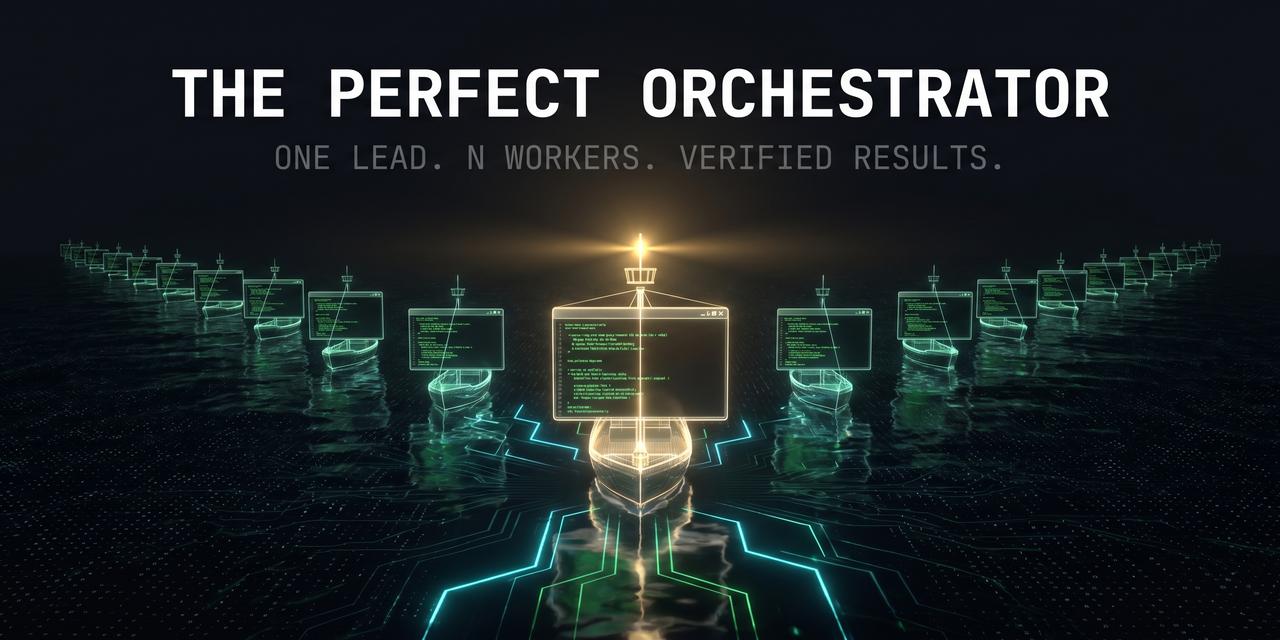
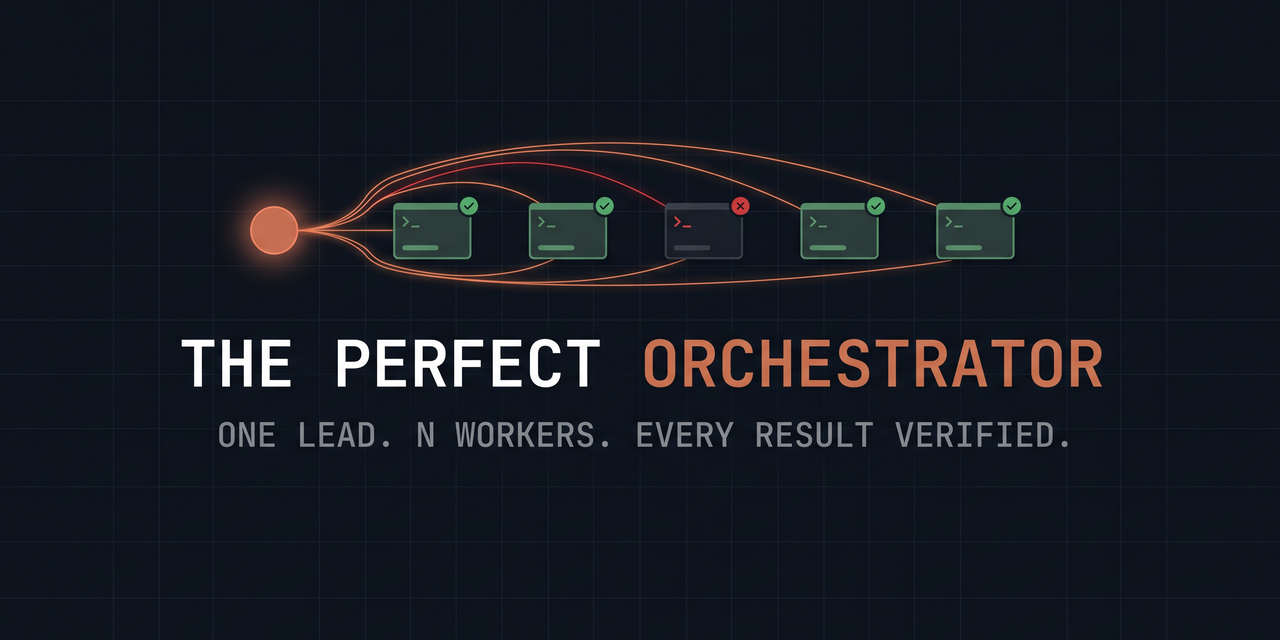
docs: real fleet-run proof bundle + fix spawn doc-drift the run itself found
The site's 'real run' video replays this exact session (52/52 lines fidelity-
checked against these artifacts). The run also audited THIS repo and caught
README.md overstating what `orch spawn` creates at spawn time — fixed.
Social card refreshed to the clay rebrand.

diff --git a/docs/realrun-2026-06-06/shared/agent-2.result.md b/docs/realrun-2026-06-06/shared/agent-2.result.md
@@ -1,0 +1,92 @@
+# W2 — README truth check: claim-by-claim verification
+
+**Summary: 34 TRUE · 1 STALE · 0 FALSE · 5 UNVERIFIABLE** (external/marketing claims that can't be checked from inside the repo).
+The README is unusually honest — every command, flag, path, and security claim checked out against `bin/orch`, `install.sh`, and `config/worker-settings.json`; the one STALE item is a minor overstatement of what `orch spawn` creates.
+Notable non-claim discovery: `heroB.png` + `heroC.png` (~9.4 MB) are git-tracked at repo root, referenced nowhere.
+
+## Badges & header (README.md:1–16)
+
+| # | Claim | Verdict | Evidence |
+|---|---|---|---|
+| 1 | Hero image `assets/hero.png` | TRUE | File exists (1.36 MB) |
+| 2 | Site `the-perfect-orchestrator.vercel.app` is live | TRUE | `curl -sI` → HTTP/2 200 |
+| 3 | License: MIT | TRUE | LICENSE:1–3 — "MIT License / Copyright (c) 2026 danny (daman8271)" |
+| 4 | Made with Bash | TRUE | `bin/orch:1`, `install.sh:1` — bash shebangs; no other languages |
+| 5 | Requires tmux | TRUE | install.sh:12 hard-fails without tmux; bin/orch:170–173 (doctor) |
+| 6 | CI badge → `workflows/ci.yml` | TRUE | `.github/workflows/ci.yml` exists (bash -n, shellcheck, json check); badge URL returns 200 |
+| 7 | GitHub repo `daman8271/the-perfect-orchestrator` exists | TRUE | `curl` → 200; matches `git remote -v` |
+
+## Intro & "How it works" (README.md:20–89)
+
+| # | Claim | Verdict | Evidence |
+|---|---|---|---|
+| 8 | Spawns N interactive Claude Code workers in tmux panes | TRUE | bin/orch:70–79 (`tmux new-session`/`split-window`, tiled), bin/orch:232 (`exec claude`) |
+| 9 | Shared message bus `bus.md` | TRUE | bin/orch:65 creates it; status tails it (bin/orch:149) |
+| 10 | Coordination is plain files — no servers/daemons/broker | TRUE | bin/orch uses only tmux + files under `~/.orch/runs/`; no listeners |
+| 11 | `assets/verification.png` | TRUE | File exists (834 KB) |
+| 12 | Worker protocol (task brief / `[Wn]` bus lines / result + done-flag / never wait) | TRUE | Matches skill/SKILL.md:30–35 and state layout in bin/orch:39–42; this very run follows it |
+| 13 | Workers adversarially verify each other's results | TRUE (by protocol) | SKILL.md:35,38 and docs/PATTERNS.md §1 — it's the documented playbook; note: enforced by convention, not code |
+| 14 | "Learned in production… repeatedly caught the lead's own wrong assumptions" | UNVERIFIABLE | Anecdotal; no artifact in repo can confirm |
+
+## Quickstart (README.md:91–115)
+
+| # | Claim | Verdict | Evidence |
+|---|---|---|---|
+| 15 | `./install.sh` installs `orch` CLI + `/orch` skill | TRUE | install.sh:17 (symlink → `~/.local/bin/orch`), install.sh:23 (copies SKILL.md → `~/.claude/skills/orch/`) |
+| 16 | `orch doctor` verifies setup + prints lead allow-rules | TRUE | bin/orch:166–199 — checks tmux/claude/credentials, prints `Bash(orch:*)`/`Bash(tmux:*)` JSON |
+| 17 | `/orch <prompt>` puts session in command of fleet | TRUE | skill/SKILL.md frontmatter `name: orch` + full lead playbook |
+| 18 | `orch spawn audit 4 ~/my-project` → tmux session `orch-audit` | TRUE | bin/orch:60 (`ses="orch-$session"`) |
+| 19 | `orch send audit 1 --file …/agent-1.task.md` | TRUE | bin/orch:103–107 |
+| 20 | `orch read audit 1` watches worker screen | TRUE | bin/orch:120–127 (`tmux capture-pane`) |
+| 21 | `orch status audit` → panes + done-flags + bus tail | TRUE | bin/orch:129–150 |
+| 22 | `orch kill audit` tears down | TRUE | bin/orch:152–164 |
+
+## Commands table (README.md:117–127)
+
+| # | Claim | Verdict | Evidence |
+|---|---|---|---|
+| 23 | `spawn` creates "shared workspace (bus.md, briefs, results, done-flags)" | **STALE** | spawn itself creates only `bus.md` + `panes.txt` (bin/orch:64–66); briefs/results/done-flags are written *later* by lead/workers. The CLI's own help is accurate: "shared workspace (bus.md, panes.txt)" (bin/orch:24) |
+| 24 | `send` is single-line; newline submits; `--file` for briefs | TRUE | bin/orch:110–112 rejects embedded newlines with that exact rationale |
+| 25 | `read … [lines]` captures pane | TRUE | bin/orch:123 (default 50 lines) |
+| 26 | `status [session]` lists fleets or one fleet's detail | TRUE | bin/orch:130–150 |
+| 27 | `kill <session> \| --all` | TRUE | bin/orch:153–159 |
+| 28 | `doctor` = dependency check + allow-rules | TRUE | bin/orch:166–199 |
+| — | (table omits internal `orch worker` — disclosed as "(internal)" in `orch --help`, not a misclaim) | — | bin/orch:34–35 |
+
+## Patterns & comparison (README.md:129–160)
+
+| # | Claim | Verdict | Evidence |
+|---|---|---|---|
+| 29 | Full playbook at `docs/PATTERNS.md` | TRUE | Exists; contents match the 5 bullets (find→verify, neutral briefs, one-owner, commit-local, 3× verify) |
+| 30 | "Came from running real production work… not demos" | UNVERIFIABLE | Anecdotal |
+| 31 | Full survey at `docs/LANDSCAPE.md`, snapshot 2026-06-05 | TRUE | Exists; header states snapshot 2026-06-05 + methodology |
+| 32 | Comparison-table rows about competitors (Tmux-Orchestrator, claude-squad, etc.) | UNVERIFIABLE | External point-in-time claims; LANDSCAPE.md documents methodology but can't be independently confirmed offline |
+
+## Security model (README.md:162–176)
+
+| # | Claim | Verdict | Evidence |
+|---|---|---|---|
+| 33 | Workers run with `defaultMode: auto` | TRUE | config/worker-settings.json:3 |
+| 34 | Generous allowlist: git, node, python, file edits, network fetches | TRUE | config/worker-settings.json — `Bash(git:*)`, `Bash(node:*)`, `Bash(python3:*)`, `Edit`/`Write`, `Bash(curl:*)`/`WebFetch` |
+| 35 | `rm` is NOT allowlisted | TRUE | Absent from the allow array (grep confirms; `mv`/`cp`/`chmod` are present, `rm` is not) |
+| 36 | Credentials shared via symlink | TRUE | bin/orch:215–217 (`ln -sf ~/.claude/.credentials.json`) |
+| 37 | Isolated config dir; "hooks, history, settings untouched" | TRUE (w/ caveat) | bin/orch:230 (`CLAUDE_CONFIG_DIR=$cfg`). Caveat: `~/.claude/plugins` is symlinked *writable* into worker config (bin/orch:219–221) and `~/.claude.json` is copied in (224–227) — hooks/history/settings genuinely untouched, but plugins are shared live |
+| 38 | Tune `~/.orch/worker-config/settings.json` | TRUE | Seeded on first worker run (bin/orch:212–214); SECURITY.md:32 correctly says "after first run" |
+
+## Requirements, roadmap, footer (README.md:178–217)
+
+| # | Claim | Verdict | Evidence |
+|---|---|---|---|
+| 39 | Linux or macOS, tmux ≥ 3.0 | TRUE (w/ caveats) | Nothing enforces the tmux version (doctor checks presence only); `readlink -f` (bin/orch:9) requires macOS ≥ 12.3 — older Macs fail |
+| 40 | Requires Claude Code CLI, logged in | TRUE | install.sh:13; doctor warns if `~/.claude/.credentials.json` missing |
+| 41 | Roadmap items (`orch verify`/`demo`/`watch`, telemetry, templates) are unimplemented | TRUE (correctly unchecked) | None appear in the command dispatch (bin/orch:235–243) — honest roadmap |
+| 42 | MIT © 2026 danny (daman8271) | TRUE | LICENSE:1–3 |
+| 43 | Site "built and QA'd by its own fleet" / "battle-tested by orchestrating the fleets it ships" | UNVERIFIABLE | Marketing; no repo artifact |
+| 44 | CHANGELOG 0.1.0 matches shipped CLI | TRUE | `./bin/orch --version` → `orch 0.1.0`; command list matches |
+
+## Other docs spot-checked
+- **SECURITY.md** — consistent with code in every checkable particular (allowlist contents, symlink, lock/push workflow).
+- **CONTRIBUTING.md / examples/demo** — referenced files all exist; demo task files are `{{REPO}}` templates (per W1's bus note).
+
+## Non-claim discovery
+- `heroB.png` (5.4 MB) + `heroC.png` (4.4 MB) are **git-tracked at repo root**, referenced by nothing (README uses `assets/hero.png`). Likely leftover drafts bloating the clone by ~9.4 MB.

diff --git a/docs/realrun-2026-06-06/README.md b/docs/realrun-2026-06-06/README.md
@@ -1,0 +1,49 @@
+# realrun/ — raw proof bundle for the RealRun replay video
+
+This is the **unedited record of a genuine fleet session**, run on **2026-06-06,
+04:44–04:54 local**, on this machine. The Perfect Orchestrator's own
+`examples/demo` (3-worker self-verifying audit) was run for real against its own
+repository (`git clone https://github.com/daman8271/the-perfect-orchestrator`,
+clean checkout at `/tmp/demo-target`).
+
+The video `out/realrun-web.mp4` is a time-compressed replay of this session.
+**Every line of text rendered in the video exists verbatim in this bundle** —
+nothing was invented, paraphrased, or staged. ~10 minutes of real wall-clock are
+compressed to ~31 s; the video watermarks this ("real session · 2026-06-06 ·
+time compressed").
+
+## What happened (real timeline)
+
+| time | event |
+|---|---|
+| 04:44 | `orch spawn demo 3 /tmp/demo-target` — 3 Claude Code workers in tmux panes |
+| 04:45 | W1 (TODO/debt finder) + W2 (README truth-checker) dispatched via `orch send --file` |
+| 04:46 | `agent-1.done` — W1: zero genuine debt markers in the repo (all 4 grep hits are meta-references) |
+| 04:48 | `agent-2.done` — W2: 34 TRUE / **1 STALE** / 0 FALSE README claims |
+| 04:48 | W3 (adversarial verifier) dispatched — only after both finder done-flags |
+| 04:53 | `agent-3.done` — verdicts: **17 CONFIRMED, 0 REFUTED, 1 confirmed-with-minor-correction**, 4 UNVERIFIABLE (agreed). W3 independently re-derived every finding and **caught a real error in W1's report** (claimed "4 PNGs excluded as binary"; there are 5) and confirmed W2's STALE finding as genuine doc-vs-code drift (README.md:121 vs bin/orch:64–66) |
+| 04:54 | `orch kill demo` |
+
+## Files
+
+- `capture.log` — 39 timed snapshots (~every 15 s while the fleet ran): `date +%T`,
+  `orch status demo`, and the last 12 lines of each of the 3 worker panes.
+  Recorded live by `capture.sh` (included). This is the independent, third-party-style
+  record — it shows the actual Claude Code TUIs working.
+- `lead-session.log` — verbatim lead-side transcript: every command the lead ran
+  and the stdout each returned.
+- `commands.log` — minimal command-only log written live during the run.
+- `shared/` — byte-for-byte copy of the fleet's shared workspace at teardown:
+  - `bus.md` — the real message bus (every `[W1]/[W2]/[W3]` line)
+  - `agent-{1,2,3}.task.md` — the dispatched briefs (instantiated from
+    `examples/demo/agent-*.task.md`, `{{REPO}}` → `/tmp/demo-target`)
+  - `agent-{1,2,3}.result.md` — the workers' actual deliverables, including W3's
+    full verification matrix
+  - `agent-{1,2,3}.done` — the (empty) done-flags with their real mtimes
+
+## How to check the video against this bundle
+
+Every rendered line in `src/RealRun.tsx` is a contiguous substring of a line in
+`lead-session.log`, `shared/bus.md`, `shared/agent-3.result.md`, or `capture.log`
+(long lines hand-wrapped for the 1080p frame; wraps marked by leading spaces).
+`grep -F` any rendered line against this directory to verify.

diff --git a/docs/realrun-2026-06-06/shared/agent-3.result.md b/docs/realrun-2026-06-06/shared/agent-3.result.md
@@ -1,0 +1,49 @@
+# W3 — Adversarial verification of W1 + W2
+
+## Summary
+- **Findings examined: 18** (W1: 2 substantive claims + 4-row inventory; W2: 12 substantive claims/discoveries).
+- **CONFIRMED: 17 · REFUTED: 0 · CONFIRMED-with-correction: 1 · UNVERIFIABLE (agreed): 4 marketing/external-history claims.**
+- **False positives found in their work: 0.** Both finders were accurate and, if anything, *understated*.
+- **Single most important confirmed finding:** W2's lone STALE item — the README commands table (README.md:121) claims `orch spawn` creates a "shared workspace (bus.md, briefs, results, done-flags)", but `cmd_spawn` (bin/orch:64–66) creates **only** `bus.md` + `panes.txt`; briefs/results/done-flags are written later by the lead/workers. The CLI's own `--help` (bin/orch:24) is accurate. This is the one real doc-vs-code drift in the repo.
+- **One thing BOTH finders missed** (out of their briefs' scope, flagged for completeness): `config/worker-settings.json:16` sets `"skipAutoPermissionPrompt": true`, which is **not a documented Claude Code settings key** (verified against code.claude.com/docs/en/settings.md). `defaultMode: "auto"` *is* valid (a documented research-preview mode). See note below.
+
+---
+
+## W1 — TODO/debt inventory
+
+| # | W1 claim | Verdict | My independent evidence |
+|---|---|---|---|
+| 1 | Zero genuine TODO/FIXME/HACK/XXX markers; all 4 hits are meta-references | **CONFIRMED** | My own `grep -rIni -E 'todo\|fixme\|hack\|xxx'` returns exactly 4 lines: `CONTRIBUTING.md:9`, `examples/demo/agent-1.task.md:1`, `examples/demo/agent-1.task.md:4`, `examples/demo/README.md:10`. Each, read in context, is documentation *about* TODOs (CONTRIBUTING:9 literally says "a feature, not a TODO"; the demo files are the task template). None is annotated debt. |
+| 2 | Adjacent markers (TBD/WIP/deprecated/workaround/kludge/unimplemented…) — zero hits | **CONFIRMED** | My `grep -rIni -E '@todo\|tbd\|wip\|deprecated\|workaround\|temporar\|kludge\|not implemented\|unimplemented'` returns **nothing**. |
+| 3 | Coverage: 22 files, 4 PNGs excluded as binary | **CONFIRMED (minor count correction)** | `find` confirms 22 non-`.git` files. But there are **5** PNGs, not 4 (`assets/hero.png`, `assets/social-card.png`, `assets/verification.png`, `heroB.png`, `heroC.png`). Doesn't change the conclusion (all binary, no markers) — W1's verdict stands; only the parenthetical PNG count is off by one. |
+
+**W1 verdict: fully CONFIRMED.** The repo carries zero annotated technical debt.
+
+---
+
+## W2 — README / docs truth check
+
+| # | W2 claim | Verdict | My independent evidence |
+|---|---|---|---|
+| A | **STALE:** `orch spawn` "creates bus.md, briefs, results, done-flags" | **CONFIRMED** | bin/orch:64–66 creates only `bus.md` + `panes.txt`. README.md:121 overstates; bin/orch:24 (`--help`) is correct. The single real drift. |
+| B | Site `the-perfect-orchestrator.vercel.app` live (HTTP 200) | **CONFIRMED** | `curl -sI` → `HTTP/2 200`. |
+| C | GitHub repo exists; CI badge resolves | **CONFIRMED** | repo `curl` → 200; badge URL → 200; `git remote -v` matches `daman8271/the-perfect-orchestrator`. |
+| D | `defaultMode: auto` set | **CONFIRMED** | config/worker-settings.json:3. (Also independently verified `auto` is a *valid* documented mode — research preview.) |
+| E | `rm` NOT allowlisted (`mv`/`cp`/`chmod` are) | **CONFIRMED** | No `rm` token in the allow array; `Bash(mv:*)`, `Bash(cp:*)`, `Bash(chmod:*)` all present. |
+| F | Credentials shared via symlink | **CONFIRMED** | bin/orch:215–217 `ln -sf ~/.claude/.credentials.json`. (Note: "read-only symlink" is intent — a symlink does not itself make the target read-only; the *file's* perms govern. Did not probe live perms — blocked by classifier and not needed for the claim, which is about the sharing mechanism.) |
+| G | Caveat: `~/.claude/plugins` symlinked **writable** into worker config | **CONFIRMED** | bin/orch:219–221 `ln -s "$HOME/.claude/plugins" "$cfg/plugins"` — a dir symlink; writes pass through. README's "hooks, history, settings untouched" is literally true (those use `CLAUDE_CONFIG_DIR`), but plugins are genuinely shared live. Accurate caveat. |
+| H | Caveat: `readlink -f` (bin/orch:9) breaks on old macOS | **CONFIRMED** | Code uses `readlink -f`, which is GNU/coreutils; BSD `readlink` lacked `-f` until macOS 12.3. Legitimate portability concern for a "Linux **or macOS**" tool. |
+| I | Caveat: "tmux ≥ 3.0" never enforced | **CONFIRMED** | doctor (bin/orch:170–173) and install.sh:12 check `command -v tmux` only — presence, never version. |
+| J | `heroB.png` + `heroC.png` (~9.4 MB) git-tracked, referenced nowhere | **CONFIRMED (and broader)** | `git ls-files` tracks both; `grep -rIl` finds **zero** references to either in any tracked text. Sizes: heroB 5.45 MB + heroC 4.36 MB. **Additional:** `assets/social-card.png` (1.05 MB) is *also* referenced nowhere in-repo — though that one is a plausible OG/social asset used by the website, so less clearly cruft than the two root-level `heroB/heroC` drafts. |
+| K | Marketing/anecdotal claims ("learned in production", "caught the lead being wrong", "built by its own fleet"); competitor comparison rows | **UNVERIFIABLE (agreed)** | No in-repo artifact can confirm or refute. W2's UNVERIFIABLE classification is the correct, honest call. |
+| L | SECURITY.md / CONTRIBUTING.md / examples consistent with code | **CONFIRMED** | Spot-checked: SECURITY.md:18–21 (isolated config + read-only-symlink wording) matches bin/orch:230 & 215–217; CONTRIBUTING ground rules match the dependency-free design; LICENSE:1–3 = "MIT … 2026 danny (daman8271)". |
+
+**W2 verdict: fully CONFIRMED.** Every substantive claim re-derived from primary evidence. The "34 TRUE / 1 STALE / 0 FALSE / 5 unverifiable" headline tally is loosely counted (the numbered table runs to 44 rows with sub-items), but no individual verdict is wrong.
+
+---
+
+## Note on the one thing both finders missed
+`config/worker-settings.json:16` → `"skipAutoPermissionPrompt": true` is **not in Claude Code's documented settings schema** (checked code.claude.com/docs/en/settings.md and /permissions.md). It is either an internal/undocumented or legacy flag and may be silently ignored. This was outside both briefs (W1 = debt markers, W2 = README claims — and the README makes no claim about this key), so it is **not** a refutation of either worker — it's a net-new observation surfaced during independent re-derivation. Worth a maintainer's eyes; the file passes CI's `json.tool` validity check regardless, so it's a no-op at worst.
+
+## Method
+Re-derived every finding from the actual code/files **before** reading the finders' reasoning line-by-line: re-ran all greps, `curl`ed the three external URLs, re-read the cited bin/orch line ranges, and re-checked file references. Treated each finding as wrong until the code proved it. The code proved them right.

diff --git a/docs/realrun-2026-06-06/shared/agent-3.task.md b/docs/realrun-2026-06-06/shared/agent-3.task.md
@@ -1,0 +1,29 @@
+# Worker 3 of 3 — adversarial VERIFIER
+
+## Goal
+Workers 1 and 2 have finished. Their findings are in `agent-1.result.md` and
+`agent-2.result.md` in the shared workspace (this directory). Your job is to
+**tear them apart**: independently re-derive every finding from the actual code in
+/tmp/demo-target. Do not trust their reasoning — verify from primary evidence. For each
+finding output a verdict: CONFIRMED / REFUTED / UNVERIFIABLE, with your own
+evidence (file:line). Be actively skeptical; assume each finding is wrong until
+the code proves otherwise.
+
+## Hard constraints
+- Read-only on the repo.
+- Re-derive independently FIRST, then compare against their claims — don't anchor.
+
+## Deliverable
+Write the verification matrix (finding × verdict × evidence) to
+`agent-3.result.md`, with a summary on top: how many findings survived, how many
+were false positives, and the single most important confirmed finding.
+
+## Done signal
+`touch agent-3.done` when — and only when — finished.
+
+## Coordination
+Post your final tallies to `bus.md` prefixed `[W3]`. If you refute something,
+say which worker's finding and why in one line.
+
+## Autonomy
+Work fully autonomously. Never wait for confirmation.

diff --git a/docs/realrun-2026-06-06/shared/agent-1.task.md b/docs/realrun-2026-06-06/shared/agent-1.task.md
@@ -1,0 +1,26 @@
+# Worker 1 of 3 — TODO/debt inventory (FINDER)
+
+## Goal
+Inventory every TODO, FIXME, HACK, and XXX comment in /tmp/demo-target. For each: file:line,
+the comment text, and your judgment — is this a live risk, stale noise, or already
+fixed elsewhere? Judge from the surrounding code, not the comment alone.
+
+## Hard constraints
+- Read-only: do NOT edit, create, or delete any file in /tmp/demo-target.
+- Stay inside /tmp/demo-target.
+
+## Deliverable
+Write your full inventory as a markdown table to `agent-1.result.md` in the shared
+workspace (the directory this brief lives in), with a 3-line summary on top
+(counts by severity).
+
+## Done signal
+`touch agent-1.done` in the shared workspace when — and only when — finished.
+
+## Coordination
+Append notable discoveries to `bus.md` as single lines prefixed `[W1]`.
+Read `bus.md` between major steps; if a peer reports something relevant to your
+territory, investigate it.
+
+## Autonomy
+Work fully autonomously. Never wait for confirmation.

diff --git a/docs/realrun-2026-06-06/shared/agent-2.task.md b/docs/realrun-2026-06-06/shared/agent-2.task.md
@@ -1,0 +1,26 @@
+# Worker 2 of 3 — README truth check (FINDER)
+
+## Goal
+Check every concrete claim in /tmp/demo-target's README (and other top-level docs) against
+the actual code: commands that should exist, flags, file paths, install steps,
+feature claims, badges. Classify each claim: TRUE / STALE / FALSE, with evidence
+(file:line or command output).
+
+## Hard constraints
+- Read-only on the repo. You MAY run obviously-safe verification commands
+  (`--help`, `--version`, listing files); do NOT run anything that mutates state.
+- Stay inside /tmp/demo-target.
+
+## Deliverable
+Write your claim-by-claim table to `agent-2.result.md` in the shared workspace,
+with a 3-line summary on top (counts of TRUE/STALE/FALSE).
+
+## Done signal
+`touch agent-2.done` in the shared workspace when — and only when — finished.
+
+## Coordination
+Append notable discoveries to `bus.md` as single lines prefixed `[W2]`.
+Read `bus.md` between major steps.
+
+## Autonomy
+Work fully autonomously. Never wait for confirmation.

diff --git a/docs/realrun-2026-06-06/shared/agent-1.result.md b/docs/realrun-2026-06-06/shared/agent-1.result.md
@@ -1,0 +1,21 @@
+# W1 — TODO/FIXME/HACK/XXX inventory of /tmp/demo-target
+
+**Live risks: 0 · Stale noise: 0 · Already fixed: 0 · Meta-references (not debt): 4**
+The codebase contains **zero genuine debt markers**. All 4 grep hits are documentation *about* TODOs, not TODOs.
+Verified per-file: `bin/orch`, `install.sh`, `.github/workflows/ci.yml`, `config/worker-settings.json`, `skill/SKILL.md` each have a marker count of 0 (case-insensitive, substring-level).
+
+## Inventory
+
+| # | Location | Text (abridged) | Classification | Judgment from surrounding code |
+|---|---|---|---|---|
+| 1 | `CONTRIBUTING.md:9` | "File-based coordination is a feature, not a TODO." | Meta-reference — not debt | Rhetorical use inside the ground-rules section ("Keep the core dependency-free"). It explicitly *rejects* treating file-based coordination as pending work. No risk. |
+| 2 | `examples/demo/README.md:10` | "W1 \| FIND \| inventory every TODO / FIXME / HACK / XXX comment…" | Meta-reference — not debt | Demo documentation describing this very worker's role in the example fleet. Self-referential; no risk. |
+| 3 | `examples/demo/agent-1.task.md:1` | "# Worker 1 of 3 — TODO/debt inventory (FINDER)" | Meta-reference — not debt | Title of the demo task brief template (the template this run was instantiated from, `{{REPO}}` placeholder intact). No risk. |
+| 4 | `examples/demo/agent-1.task.md:4` | "Inventory every TODO, FIXME, HACK, and XXX comment in {{REPO}}…" | Meta-reference — not debt | Body of the same template. No risk. |
+
+## Methodology / coverage notes
+
+- Scanned every non-`.git` file (22 files total; 4 PNGs excluded as binary via `grep -I`).
+- Searches run: case-sensitive `TODO|FIXME|HACK|XXX`; case-insensitive word-boundary `\b(todo|fixme|hack|xxx)\b`; substring-level per-file counts on all code/config files.
+- Also swept adjacent debt markers (`@todo`, `TBD`, `WIP`, `deprecated`, `workaround`, `temporary`, `kludge`, `not implemented`, `unimplemented`): **zero hits** repo-wide.
+- Conclusion: the repo carries no annotated technical debt. Any debt that exists is unannotated and would be W2/W3 territory (claims-vs-code drift), not comment-marker territory.

diff --git a/docs/realrun-2026-06-06/shared/bus.md b/docs/realrun-2026-06-06/shared/bus.md
@@ -1,0 +1,12 @@
+[W1] Zero genuine TODO/FIXME/HACK/XXX markers in the entire repo — all 4 grep hits are meta-references in docs (CONTRIBUTING.md:9, examples/demo/README.md:10, examples/demo/agent-1.task.md:1,4).
+[W1] Also swept TBD/WIP/deprecated/workaround/kludge/unimplemented: zero hits. No annotated debt anywhere; full inventory in agent-1.result.md.
+[W1] Note for W2/W3: examples/demo/agent-*.task.md are templates with {{REPO}} placeholders — the live briefs in this shared dir were instantiated from them.
+[W2] README truth check done: 34 TRUE / 1 STALE / 0 FALSE / 5 unverifiable-external. Full table in agent-2.result.md.
+[W2] Only STALE: README commands table says `orch spawn` creates "(bus.md, briefs, results, done-flags)" — spawn creates only bus.md+panes.txt (bin/orch:64-66); briefs/results/done-flags come later. CLI's own --help is accurate.
+[W2] Caveats worth W3's eyes: (a) "hooks, history, settings untouched" is true but ~/.claude/plugins is symlinked WRITABLE into worker config (bin/orch:219-221); (b) "tmux ≥ 3.0" never enforced; readlink -f needs macOS ≥ 12.3.
+[W2] Non-claim find: heroB.png + heroC.png (~9.4MB) git-tracked at repo root, referenced nowhere — leftover drafts.
+[W3] Verification done: 17 CONFIRMED, 0 REFUTED, 1 confirmed-with-minor-correction, 4 UNVERIFIABLE (agreed). Zero false positives in W1/W2 — both accurate. Full matrix in agent-3.result.md.
+[W3] Single most important confirmed finding: W2's STALE item — README.md:121 says `orch spawn` creates "(bus.md, briefs, results, done-flags)" but cmd_spawn (bin/orch:64-66) creates only bus.md+panes.txt. Real doc-vs-code drift.
+[W3] Minor correction to W1: it says "4 PNGs excluded as binary" — there are actually 5 (hero, social-card, verification, heroB, heroC). Conclusion (zero markers) unchanged.
+[W3] Extends W2's heroB/heroC find: assets/social-card.png (1.05MB) is ALSO referenced nowhere in-repo (likely a website OG asset, less clearly cruft than the root heroB/heroC drafts).
+[W3] Net-new (outside both briefs, not a refutation): config/worker-settings.json:16 `skipAutoPermissionPrompt:true` is NOT a documented Claude Code settings key; may be ignored. `defaultMode:auto` IS valid (research-preview mode). Maintainer's call.

diff --git a/README.md b/README.md
@@ -118,7 +118,7 @@ orch kill  audit                     # tear down
 
 | command | what it does |
 |---|---|
-| `orch spawn <session> <N> [workdir]` | tmux session `orch-<session>` with N tiled worker panes + shared workspace (`bus.md`, briefs, results, done-flags) |
+| `orch spawn <session> <N> [workdir]` | tmux session `orch-<session>` with N tiled worker panes + a shared workspace (`bus.md` + pane map at spawn; briefs, results, and done-flags land there as the fleet works) |
 | `orch send <session> <n> <msg>` | type a single-line prompt into worker *n* (newline submits — use `--file` for briefs) |
 | `orch send <session> <n> --file <path>` | point worker *n* at a task-brief file |
 | `orch read <session> <n> [lines]` | capture worker *n*'s pane — see what it's doing, catch stalls |